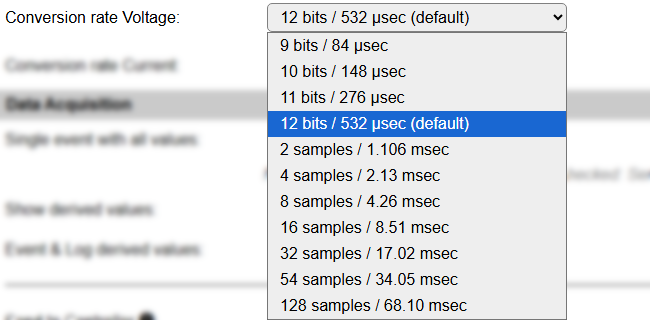
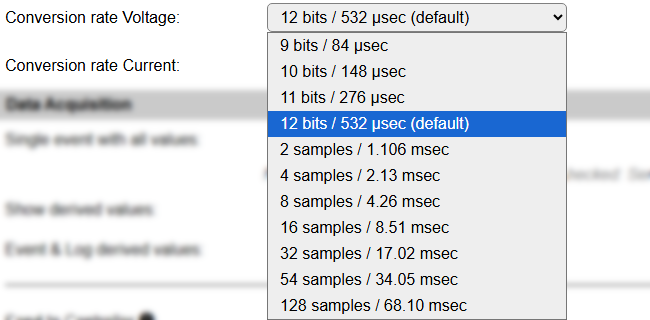
[P132] Update documentation for INA228 conversion rates

Changed region(s): [[0.0, 0.1562, 0.2769, 0.25]]

diff --git a/docs/source/Plugin/P132.rst b/docs/source/Plugin/P132.rst
@@ -148,6 +148,12 @@ For ``INA219`` a different **Conversion rate** selector is available:
   :alt: Conversion rate options
 
 
+Also for ``INA228`` a different **Conversion rate** selector is available:
+
+.. image:: P132_ConversionRateOptionsV2_INA228.png
+  :alt: Conversion rate options
+
+
 .. include:: DataAcquisition.repl
 
 Values
